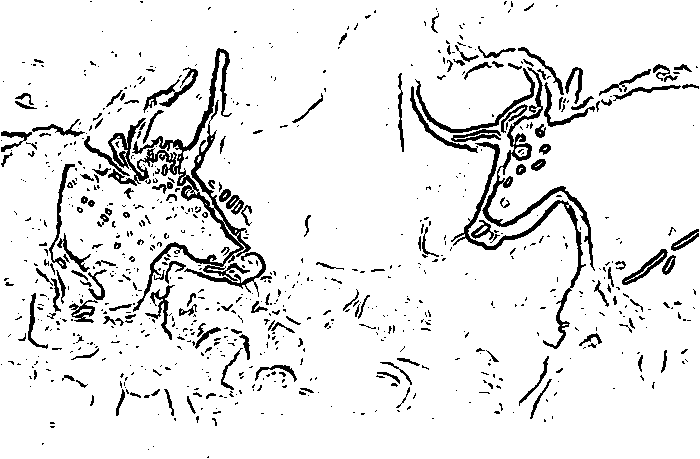
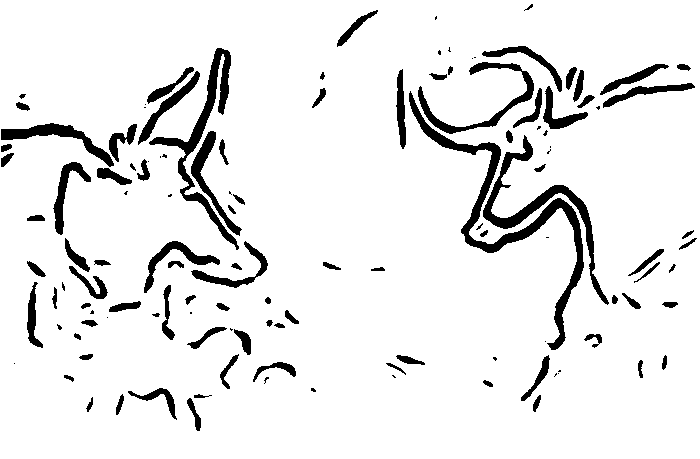
review: general fixes and improvements
- ColoringCanvas: set crossOrigin for remote images (Wikimedia) so
  getImageData/toDataURL don't throw SecurityError (blank canvas / save broken)
- api/img: remove personal email from proxy User-Agent
- admin upload: fail closed when ADMIN_PASSWORD env is missing instead of
  shipping a default password in a public repo
- CI: replace always-failing GitHub Pages deploy workflow with a build check
  (deployment is handled by Vercel)
- lascaux sketch: regenerate with blur 4 — bold animal outlines, no rock noise
- regenerate-sketches: per-painting overrides + CLI filter args
- remove leftover deploy-test marker on home title
- add README (routes, sketch pipeline, deploy, admin env vars)

Claude-Session: https://claude.ai/code/session_01Q5xfs75juVexPWZqbmKanq

diff --git a/app/api/admin/upload/route.ts b/app/api/admin/upload/route.ts
@@ -1,9 +1,13 @@
 import { NextRequest, NextResponse } from 'next/server'
 import { paintings } from '@/data/paintings'
 
-const ADMIN_PASSWORD = process.env.ADMIN_PASSWORD ?? 'pintem2024'
-
 export async function POST(req: NextRequest) {
+  // Sense ADMIN_PASSWORD configurat, l'endpoint queda tancat (mai una
+  // contrasenya per defecte al codi: el repo és llegible públicament).
+  const ADMIN_PASSWORD = process.env.ADMIN_PASSWORD
+  if (!ADMIN_PASSWORD) {
+    return NextResponse.json({ error: 'ADMIN_PASSWORD no configurat a Vercel (Settings → Environment Variables)' }, { status: 503 })
+  }
   const pw = req.headers.get('x-admin-password')
   if (pw !== ADMIN_PASSWORD) {
     return NextResponse.json({ error: 'No autoritzat' }, { status: 401 })

diff --git a/app/page.tsx b/app/page.tsx
@@ -60,7 +60,7 @@ export default function LandingPage() {
           margin: 0, fontFamily: 'var(--font-display)', fontWeight: 800,
           fontSize: 42, lineHeight: 0.98, letterSpacing: '-0.01em', color: 'var(--ink)',
         }}>
-          Pintem <span style={{ color: ACCENT }}>junts</span> <span style={{ fontSize: 14, verticalAlign: 'middle' }}>🟢</span>
+          Pintem <span style={{ color: ACCENT }}>junts</span>
         </h1>
         <p style={{
           margin: '8px 0 0', fontSize: 15, color: 'var(--ink-70)', fontFamily: 'var(--font-body)',

diff --git a/app/api/img/route.ts b/app/api/img/route.ts
@@ -25,8 +25,8 @@ export async function GET(req: NextRequest) {
   try {
     upstream = await fetch(url, {
       headers: {
-        // Wikimedia exigeix un User-Agent identificable amb contacte (User-Agent policy)
-        'User-Agent': 'PintarViatge/1.0 (https://pintar-viatge.vercel.app; anuskitadeluca@gmail.com) NextjsImageProxy',
+        // Wikimedia exigeix un User-Agent identificable (User-Agent policy)
+        'User-Agent': 'PintarViatge/1.0 (https://pintar-viatge.vercel.app) NextjsImageProxy',
         'Accept': 'image/*',
       },
     })

diff --git a/components/ColoringCanvas.tsx b/components/ColoringCanvas.tsx
@@ -224,6 +224,9 @@ const ColoringCanvas = forwardRef<ColoringCanvasHandle, Props>(
       const failTimer = setTimeout(() => { if (alive) onFailRef.current?.() }, 15000)
 
       const img = new Image()
+      // Necessari per a imatges remotes (ex: Wikimedia): sense això el canvas
+      // queda "tainted" i getImageData/toDataURL llancen SecurityError.
+      if (/^https?:\/\//.test(imageUrl)) img.crossOrigin = 'anonymous'
 
       img.onload = () => {
         if (!alive) return

diff --git a/README.md b/README.md
@@ -1,0 +1,53 @@
+# 🎨 Pintem Junts! (Pintar-viatge)
+
+App de pintar per a nens: colorejar quadres d'artistes famosos en un viatge
+pel món i el temps. Feta amb Next.js (App Router) + Tailwind, en català.
+
+## Rutes
+
+| Ruta | Què és |
+|---|---|
+| `/` | Pantalla d'inici amb els 4 modes |
+| `/atlas` | Descobrir artistes al mapa del món |
+| `/museus` | Descobrir museus del món |
+| `/pintar/[id]` | Llenç per colorejar un quadre (omplir + pinzell, zoom, desfer) |
+| `/la-meva-foto` | Converteix una foto pròpia en dibuix per colorejar (IA de Hugging Face amb fallback local al dispositiu) |
+| `/les-meves-obres` | Galeria de les obres guardades (localStorage) |
+| `/admin` | Pujar imatges personalitzades dels quadres (protegit per contrasenya) |
+
+## Com funcionen els dibuixos per colorejar
+
+- `public/paintings/*.jpg` — imatge original del quadre (+ `-thumb`).
+- `public/sketches/<id>.png` — contorns pre-generats amb detecció de vores
+  Sobel (blanc + línies negres). Si falta el PNG, `ColoringCanvas` genera els
+  contorns en temps real al navegador (adaptive threshold).
+- Per regenerar sketches: `node scripts/regenerate-sketches.mjs [id1 id2 ...]`
+  (sense arguments els regenera tots). Ajustos per quadre a `OVERRIDES` dins
+  l'script (p. ex. més `blur` per eliminar textura fina com la roca de Lascaux).
+
+## Desplegament
+
+**Vercel** desplega automàticament la branca `main` d'aquest repo
+(projecte `pintar-viatge` → https://pintar-viatge.vercel.app). El workflow de
+GitHub Actions (`.github/workflows/ci.yml`) només verifica que el build compila.
+
+> ⚠ Hi ha una còpia antiga de l'app dins el repo `coral-la-fuga`
+> (subdirectori `pintar-viaje/`). La font de veritat és **aquest** repo;
+> eviteu editar la còpia.
+
+## Configuració de l'admin (`/admin`)
+
+Variables d'entorn a Vercel (Settings → Environment Variables):
+
+- `ADMIN_PASSWORD` — contrasenya per accedir a `/admin`. **Sense aquesta
+  variable, la pujada queda desactivada** (error 503).
+- `BLOB_READ_WRITE_TOKEN` — token de Vercel Blob (Storage → Create Blob store)
+  on es guarden les imatges pujades i el manifest.
+
+## Desenvolupament
+
+```bash
+npm install
+npm run dev     # http://localhost:3000
+npm run build   # build de producció
+```
